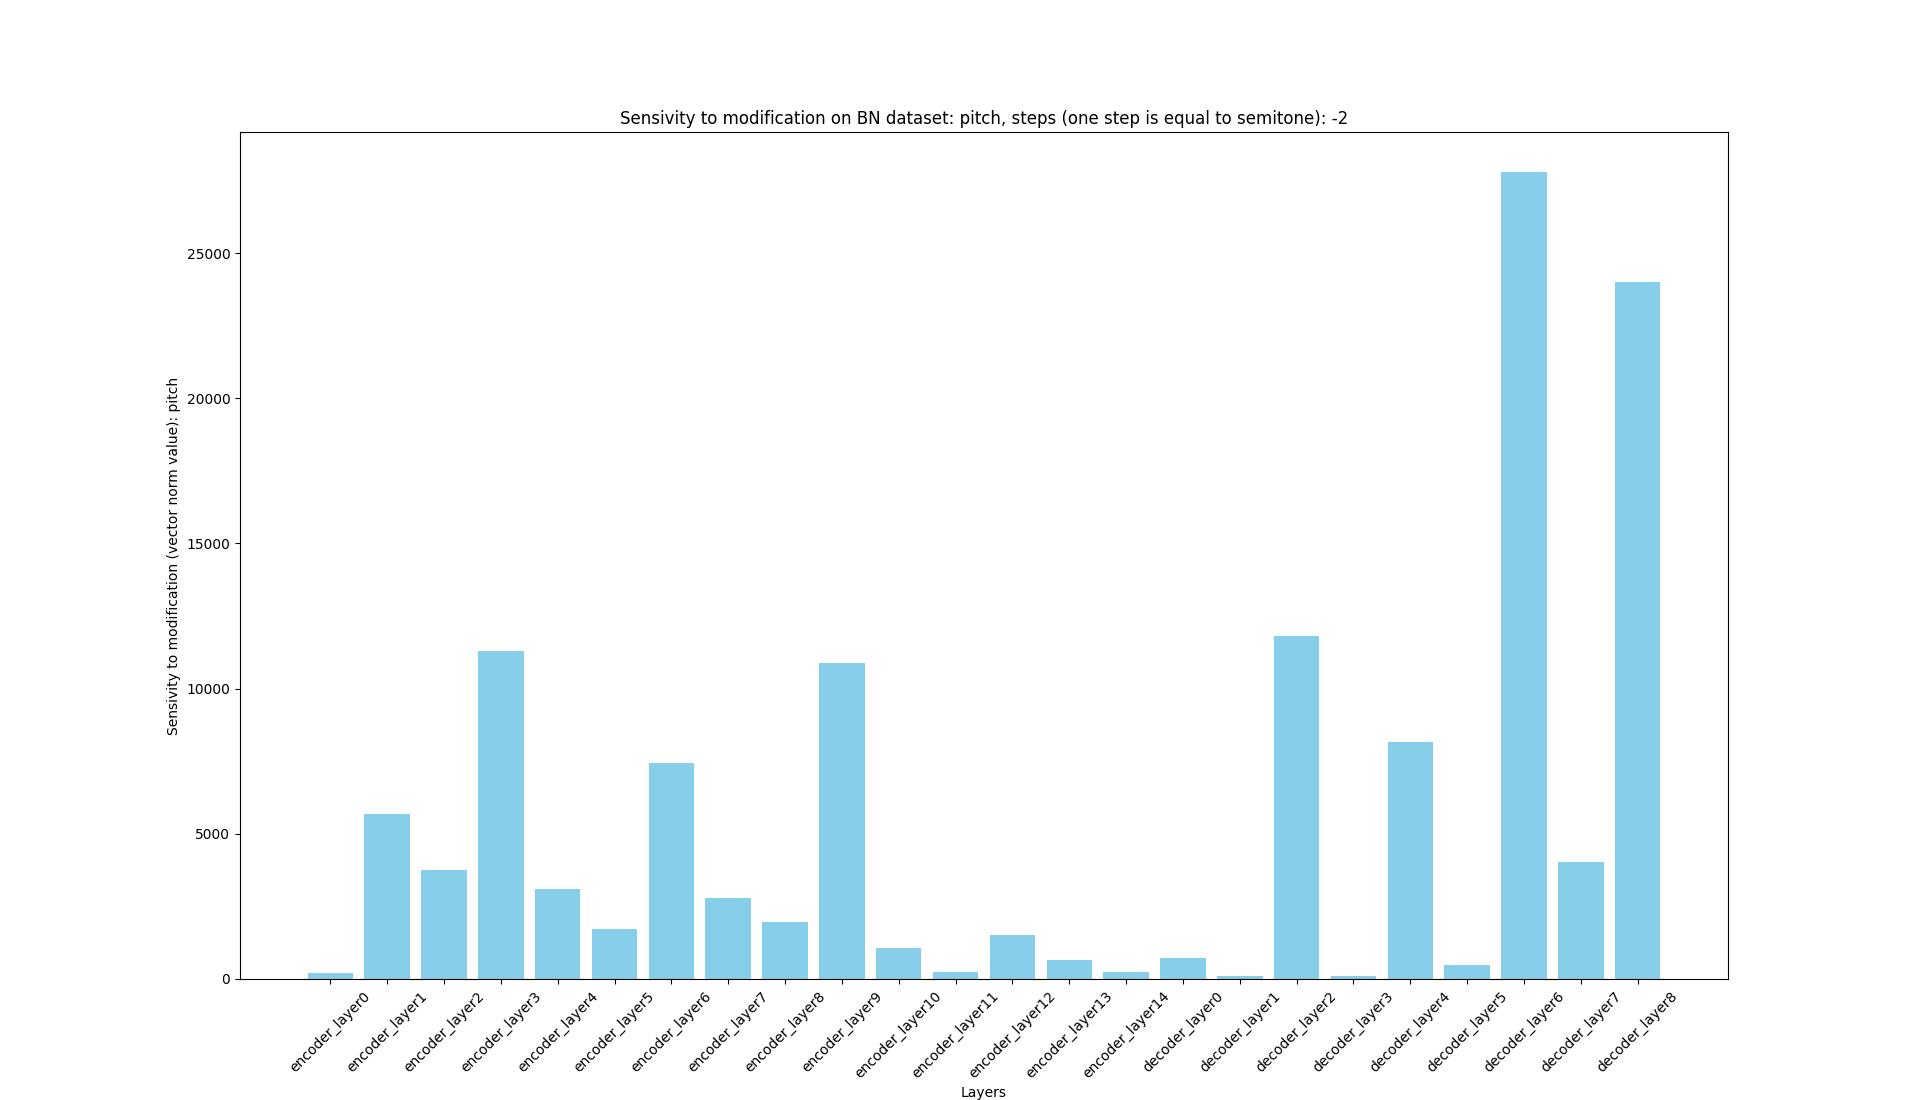
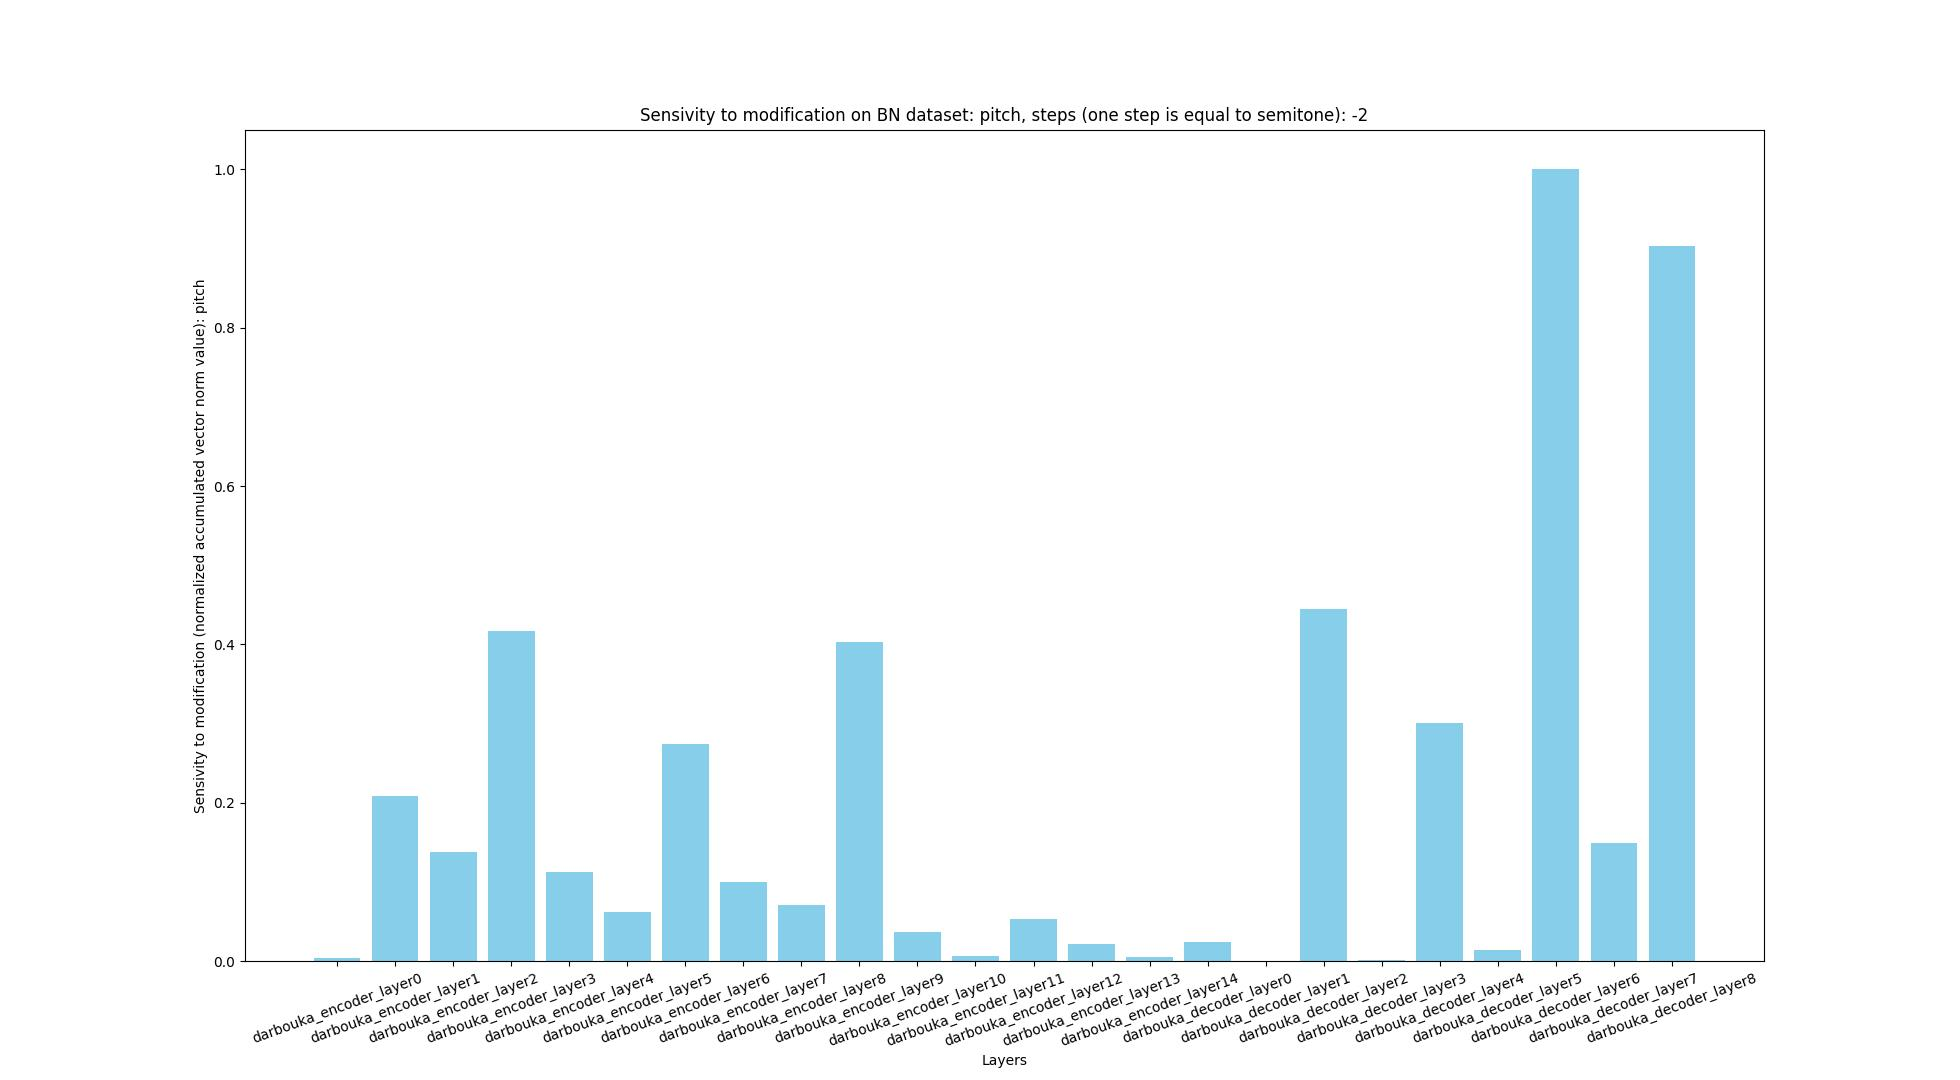
Add normalization for diagrams data

diff --git a/rave/activation_sensivity.py b/rave/activation_sensivity.py
@@ -40,44 +40,56 @@ def gatherActivationPatch(activation_funcs_dict: dict, activation_func_params: d
     batch_mod_func_args["batch"] = batch
     changed_batch = batch_mod_func(**batch_mod_func_args)
     activation_func_params["batch"] = changed_batch.detach()
-    modified_pitch_output = activation_funcs_dict[activation_layers_name](**activation_func_params)
-    return torch.norm(modified_pitch_output - output).item()
+    modified_output = activation_funcs_dict[activation_layers_name](**activation_func_params)
+    return (modified_output, torch.norm(modified_output - output).item())
+
+
+def gatherModuleActivations(base_name: str, activation_layers_name: str, layer_number: int,
+                            activations_patches_dict: dict, tensors_pairs_dict: dict,
+                            activation_funcs_dict: dict, activation_func_params: dict, batch, device: str,
+                            batch_mod_func, batch_mod_func_args):
+    if (base_name + str(layer_number) not in activations_patches_dict.keys()):
+        activations_patches_dict[base_name + str(layer_number)] = 0
+    if (base_name + str(layer_number) not in tensors_pairs_dict.keys()):
+        tensors_pairs_dict[base_name + str(layer_number)] = []
+    activation_patch = gatherActivationPatch(activation_funcs_dict, activation_func_params, batch,
+                                             activation_layers_name, layer_number, device,
+                                             batch_mod_func, batch_mod_func_args)
+    tensors_pairs_dict[base_name + str(layer_number)].append((batch, activation_patch[0]))
+    activations_patches_dict[base_name + str(layer_number)] += activation_patch[1]
 
 
 def gatherActivationPatches(activation_funcs_dict: dict, dataloader: torch.utils.data.DataLoader, model, device: str,
                             batch_mod_func, batch_mod_func_args):
     activations_patches_dict = {}
+    tensors_pairs_dict = {}
     with tqdm.tqdm(total=len(dataloader)) as pbar:
         with torch.no_grad():
             for number, batch in enumerate(dataloader):
                 batch = batch.to(device)
                 activation_func_params = {"model": model, "batch": batch}
                 for encoder_layer_number in range(15):
-                    base_name = "encoder_layer"
-                    if (base_name + str(encoder_layer_number) not in activations_patches_dict.keys()):
-                        activations_patches_dict[base_name + str(encoder_layer_number)] = 0
-                    activations_patches_dict[base_name + str(encoder_layer_number)] += \
-                        gatherActivationPatch(activation_funcs_dict, activation_func_params, batch, "darbouka_encoder",
-                                              encoder_layer_number, device, batch_mod_func, batch_mod_func_args)
+                    gatherModuleActivations("darbouka_encoder_layer", "darbouka_encoder", encoder_layer_number,
+                                            activations_patches_dict,
+                                            tensors_pairs_dict, activation_funcs_dict, activation_func_params, batch,
+                                            device, batch_mod_func, batch_mod_func_args)
                 for decoder_layer_number in range(9):
-                    base_name = "decoder_layer"
-                    if (base_name + str(decoder_layer_number) not in activations_patches_dict.keys()):
-                        activations_patches_dict[base_name + str(decoder_layer_number)] = 0
-                    activations_patches_dict[base_name + str(decoder_layer_number)] += \
-                        gatherActivationPatch(activation_funcs_dict, activation_func_params, batch, "darbouka_decoder",
-                                              decoder_layer_number, device, batch_mod_func, batch_mod_func_args)
+                    gatherModuleActivations("darbouka_decoder_layer", "darbouka_decoder", decoder_layer_number,
+                                            activations_patches_dict,
+                                            tensors_pairs_dict, activation_funcs_dict, activation_func_params, batch,
+                                            device, batch_mod_func, batch_mod_func_args)
                 pbar.set_postfix_str(f"Batch number: {number}")
                 pbar.update(1)
-    return activations_patches_dict
+    return activations_patches_dict, tensors_pairs_dict
 
 
 def plot(activation_patches_dict: dict, tested_param: str, param_modification_factor, music_category: str):
-    plt.figure(figsize=(19.2, 11))
+    plt.figure(figsize=(19.6, 10.8))
     plt.bar(activation_patches_dict.keys(), activation_patches_dict.values(), color='skyblue')
     plt.xlabel("Layers")
-    plt.ylabel(f"Sensivity to modification (vector norm value): {tested_param}")
+    plt.ylabel(f"Sensivity to modification (normalized accumulated vector norm value): {tested_param}")
     plt.title(f"Sensivity to modification on {music_category} dataset: {tested_param}, {param_modification_factor}")
-    plt.xticks(rotation=45)
+    plt.xticks(rotation=20)
     plt.savefig(f"./diagrams/Sensivity_{tested_param}_{param_modification_factor}_{music_category}.jpg")
     plt.clf()
 
@@ -126,20 +138,42 @@ def getTestedParamValueDescription(tested_param: str, params_dict: dict):
     return values_dict[tested_param]
 
 
+def normalize(activations_sensivity_dict: dict) -> dict:
+    gathered_values = []
+    for layer_name in activations_sensivity_dict.keys():
+        gathered_values.append(activations_sensivity_dict[layer_name])
+    gathered_values = np.asarray(gathered_values)
+    normalized = (gathered_values - gathered_values.min()) / (gathered_values.max() - gathered_values.min())
+    for iterator, layer_name in enumerate(activations_sensivity_dict.keys()):
+        activations_sensivity_dict[layer_name] = normalized[iterator]
+
+
+def saveSensivityScore(filename: str, activations_sensivity_dict: dict) -> None:
+    with open(filename, "w") as file_handle:
+        for layer_name, sensivity_score in activations_sensivity_dict.items():
+            file_handle.write(f"{layer_name},{sensivity_score}\n")
+
+
 def main():
     args = getCMDArgs()
     DEVICE = getDevice()
     dataset = AudioChunksDataset(args.audio_dir, max_length=1600)
-    dataloader = createDataloader(dataset, shuffle=False)
+    dataloader = createDataloader(dataset, shuffle=True)
     model = prepareModel("darbouka_onnx.ts", DEVICE)
     activation_funcs_dict = {"darbouka_encoder": getActivationEncoderLayer,
                              "darbouka_decoder": getActivationDecoderLayer}
     batch_mod_func = chooseBatchModification(args.tested_parameter)
     params_dict = readParamsFile(args.params_file)
     batch_mod_func_args = chooseBatchModificationArgs(args.tested_parameter, params_dict)
-    activations_patches_dict = gatherActivationPatches(activation_funcs_dict, dataloader, model, DEVICE, batch_mod_func,
-                                                       batch_mod_func_args)
+    activations_patches_dict, tensors_pairs_dict = gatherActivationPatches(activation_funcs_dict, dataloader, model,
+                                                                           DEVICE, batch_mod_func, batch_mod_func_args)
     tested_param_value_desc = getTestedParamValueDescription(args.tested_parameter, params_dict)
+    torch.save(tensors_pairs_dict,
+               f"./activations_sensivity_data/Sensivity_{args.tested_parameter}_{tested_param_value_desc}_\
+{args.audio_category}.pt")
+    normalize(activations_patches_dict)
+    saveSensivityScore(f"./diagrams_data/Sensivity_{args.tested_parameter}_{tested_param_value_desc}_\
+{args.audio_category}.txt", activations_patches_dict)
     plot(activations_patches_dict, args.tested_parameter, tested_param_value_desc, args.audio_category)
 
 
